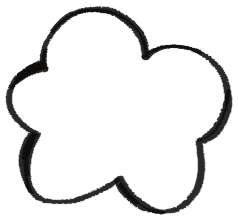
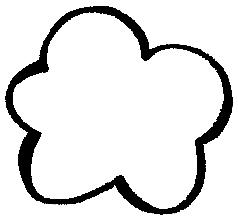
Updated splats to be in better places, better sizes, and utilize proper colors

Changed region(s): [[0.0, 0.0273, 1.0, 0.9818], [0.0882, 0.3, 0.1176, 0.3273]]

diff --git a/docs/sketch.js b/docs/sketch.js
@@ -135,7 +135,7 @@
          * @param {number} borderSize - Offset for the border copies.
          * @param {number} iterations - How many border copies to draw.
          */
-        constructor(index, colorValue, img, scale = 0.35, borderSize = 2, iterations = 5) {
+        constructor(index, colorValue, img, scale = 0.7, borderSize = 2, iterations = 5) {
           this.index = index;
           this.colorValue = colorValue;
           this.img = img; // Use the image passed in
@@ -146,21 +146,21 @@
           // Set target positions based on the canvas dimensions:
           if (this.index === 0) {
             // First option: left middle side.
-            this.targetX = width * 0.25;
+            this.targetX = width * 0.20;
             this.targetY = height * 0.5;
           } else if (this.index === 1) {
             // Second option: randomly choose between top middle left or top middle right.
             if (random() < 0.5) {
-              this.targetX = width * 0.4;
-              this.targetY = height * 0.3;
+              this.targetX = width * 0.3;
+              this.targetY = height * 0.2;
             } else {
-              this.targetX = width * 0.6;
-              this.targetY = height * 0.3;
+              this.targetX = width * 0.65;
+              this.targetY = height * 0.25;
             }
           } else if (this.index === 2) {
             // Third option: right middle side.
             this.targetX = width * 0.75;
-            this.targetY = height * 0.5;
+            this.targetY = height * 0.6;
           }
           
           this.scale = scale;
@@ -200,46 +200,33 @@
         }
         
         renderToCache() {
-          this.cache.clear();
-          this.cache.push();
-          this.cache.imageMode(CENTER);
-          // Draw border copies with the secondary color tint.
-          this.cache.tint(this.secondaryColor);
-          for (let i = 0; i < this.iterations; i++) {
-            let angle = (TWO_PI / this.iterations) * i;
-            let offsetX = this.borderSize * cos(angle);
-            let offsetY = this.borderSize * sin(angle);
-            this.cache.image(
-              this.img,
-              this.cacheW / 2 + offsetX,
-              this.cacheH / 2 + offsetY,
-              this.img.width * this.scale,
-              this.img.height * this.scale
-            );
-          }
-          this.cache.pop();
+            // Clear the cache.
+            this.cache.clear();
           
-          // Draw the main splat image tinted with the option's main color.
-          this.cache.push();
-          this.cache.imageMode(CENTER);
-          this.cache.tint(this.colorValue);
-          this.cache.image(
+            // Draw the filled part (the image is all white and light gray)
+            this.cache.push();
+            this.cache.imageMode(CENTER);
+            this.cache.tint(this.colorValue); // this will turn white into the desired color
+            this.cache.image(
             this.img,
             this.cacheW / 2,
             this.cacheH / 2,
             this.img.width * this.scale,
             this.img.height * this.scale
-          );
-          this.cache.pop();
+            );
+            this.cache.pop();
+
           
-          // Draw the option number on top using the secondary color.
-          this.cache.push();
-          this.cache.textAlign(CENTER, CENTER);
-          this.cache.fill(this.secondaryColor);
-          this.cache.textSize(24);
-          this.cache.text(`${this.index + 1}`, this.cacheW / 2, this.cacheH / 2);
-          this.cache.pop();
-        }
+            // 4. Draw the option number on top using the secondary color.
+            this.cache.push();
+            this.cache.textAlign(CENTER, CENTER);
+            this.cache.fill(this.secondaryColor);
+            this.cache.textSize(24);
+            this.cache.text(`${this.index + 1}`, this.cacheW / 2, this.cacheH / 2);
+            this.cache.pop();
+          }
+          
+          
         
         update() {
           if (!this.arrived) {
